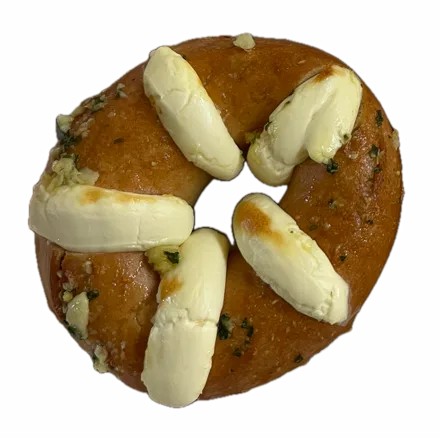
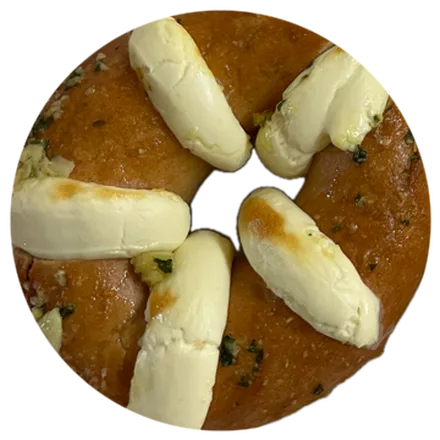
feat(stuffd-bagels): Korean-inspired positioning; round market-trail bagel
Copy (founder 2026-11-22: it's a Korean-inspired bagel, Korean street food): hero line, Our story, page title and search descriptions no longer say New York.
Market-trail pins: the classic bagel trimmed to a perfect circle.

diff --git a/artifacts/stuffd-bagels/src/seo.ts b/artifacts/stuffd-bagels/src/seo.ts
@@ -29,7 +29,7 @@ const business = {
   name: SITE_NAME,
   slogan: "Every bite packed right.",
   description:
-    "Cape Town's first stuffed bagel. Fresh, handmade stuffed bagels from our cart at markets and festivals across Cape Town. Halal menu. Order on the website by Wednesday and collect on Saturday at one of our pickup points, or just buy at the cart at a market. Online orders are confirmed once paid.",
+    "Cape Town's first stuffed bagel. Korean-inspired, handmade stuffed bagels from our cart at markets and festivals across Cape Town. Halal menu. Order on the website by Wednesday and collect on Saturday at one of our pickup points, or just buy at the cart at a market. Online orders are confirmed once paid.",
   url: `${SITE_URL}/`,
   image: [OG_IMAGE, `${SITE_URL}/hero-bagel.jpeg`],
   logo: `${SITE_URL}/logo-badge.png`,
@@ -64,9 +64,9 @@ const business = {
 export const PAGES: PageMeta[] = [
   {
     path: "/",
-    title: "STUFF'D Bagels | Stuffed Bagels in Cape Town",
+    title: "STUFF'D Bagels | Korean-Inspired Stuffed Bagels in Cape Town",
     description:
-      "Cape Town's first stuffed bagel. Fresh, handmade stuffed bagels at markets and events across Cape Town. Order ahead online.",
+      "Cape Town's first stuffed bagel. Korean-inspired, handmade stuffed bagels at markets and events across Cape Town. Order ahead online.",
     jsonLd: [
       {
         "@context": "https://schema.org",

diff --git a/artifacts/stuffd-bagels/src/pages/Home.tsx b/artifacts/stuffd-bagels/src/pages/Home.tsx
@@ -708,7 +708,7 @@ export default function Home() {
               className="hero-pop text-white text-lg lg:text-xl font-medium leading-relaxed max-w-[36ch] m-0 text-balance"
               style={{ "--d": "180ms" } as CSSProperties}
             >
-              Classic New York bagels, stuffed with cream cheese and bold
+              Korean street-food style bagels, stuffed with cream cheese and bold
               fillings. Order ahead for Saturday pickup, or find the cart at a market.
             </p>
             <div
@@ -1213,9 +1213,9 @@ export default function Home() {
               </h2>
               <p className="text-lg leading-relaxed mt-8 mb-0 max-w-[46ch] text-white/90">
                 STUFF'D started with one question: why does Cape Town not have
-                a proper stuffed bagel? We took the classic New York bagel,
-                packed it with bold fillings, and brought it to the streets of
-                the Mother City.
+                a proper stuffed bagel? We took our cue from Korean street food,
+                packed our bagels with cream cheese and bold fillings, and brought
+                them to the streets of the Mother City.
               </p>
               <p className="text-lg leading-relaxed mt-4 mb-0 max-w-[46ch] text-white/90">
                 Find the cart at markets and festivals across Cape Town. No

diff --git a/artifacts/stuffd-bagels/index.html b/artifacts/stuffd-bagels/index.html
@@ -4,7 +4,7 @@
     <meta charset="UTF-8" />
     <meta name="viewport" content="width=device-width, initial-scale=1.0" />
     <!--seo-->
-    <title>STUFF&#39;D Bagels | Stuffed Bagels in Cape Town</title>
+    <title>STUFF&#39;D Bagels | Korean-Inspired Stuffed Bagels in Cape Town</title>
     <!--/seo-->
     <meta
       name="google-site-verification"
